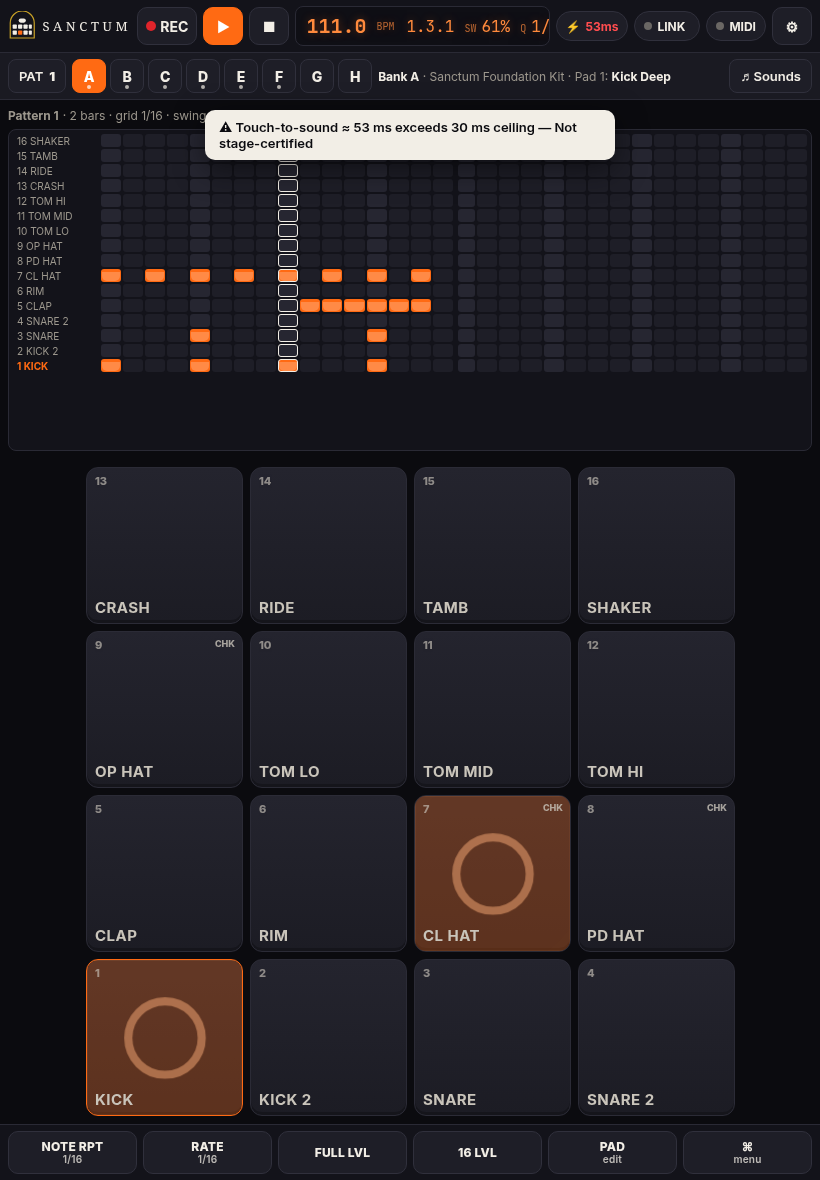
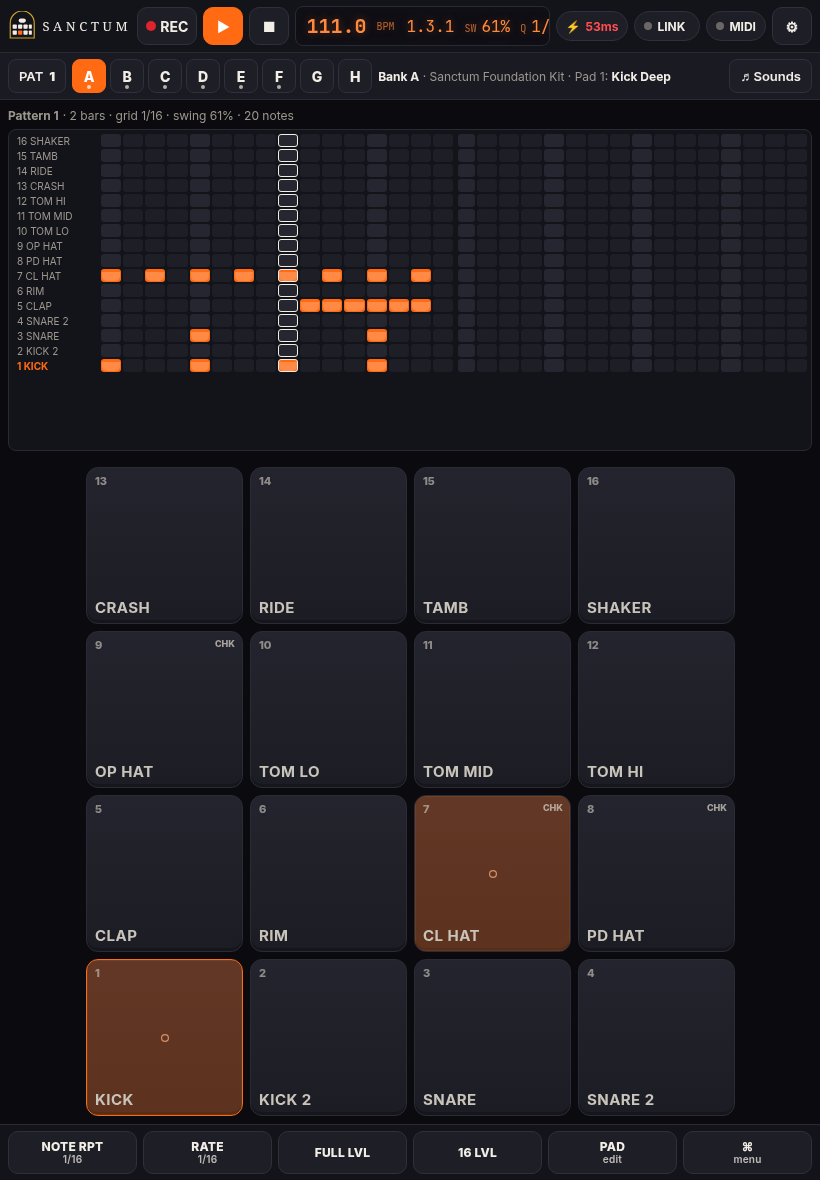
README, exact loop rate, Link start/stop sync, phase-safe relay play, smoke robustness

Changed region(s): [[0.2439, 0.0915, 0.7622, 0.1525], [0.5488, 0.7017, 0.6707, 0.7932], [0.1524, 0.8237, 0.2744, 0.9153]]

diff --git a/src/app.ts b/src/app.ts
@@ -58,7 +58,16 @@ export class App {
     });
     this.seq.noteRepeat = false;
     this.link = new LinkClient(this.engine, this.seq.clock, () => this.p.settings.linkUrl);
-    this.link.onState = () => this.emit('link');
+    let linkWasPlaying = false;
+    this.link.onState = (st) => {
+      // Link start/stop sync: follow other peers' transport (start lands on the next quantum)
+      if (this.p.settings.linkEnabled && st.connected && st.playing !== linkWasPlaying) {
+        linkWasPlaying = st.playing;
+        if (st.playing && !this.seq.playing && this.started) this.play();
+        else if (!st.playing && this.seq.playing) this.stop();
+      }
+      this.emit('link');
+    };
     this.link.onTempo = (bpm) => { this.p.bpm = Math.round(bpm * 100) / 100; this.updateLoopRates(); this.save(); this.emit('tempo'); };
     this.engine.onStats = () => this.emit('stats');
     this.engine.onRecreate.push((changed) => { if (changed) this.regenerateSynth(); });
@@ -228,7 +237,14 @@ export class App {
     this.loops.set(global, { sound: s, at, startBeat: this.seq.clock.beatAt(at) });
     this.emit('loops');
   }
-  loopRate(s: SoundDef, tune = 0) { return (s.bpm ? this.seq.clock.bpm / s.bpm : 1) * Math.pow(2, tune / 12); }
+  loopRate(s: SoundDef, tune = 0) {
+    if (!s.bpm) return Math.pow(2, tune / 12);
+    // exact: one loop cycle must last beats*60/projectBpm seconds, regardless of resampling rounding
+    const smp = this.engine.samples.get(s.id); const beats = s.beats || (s.bars ? s.bars * 4 : 0);
+    const lenSec = smp ? smp.ch[0].length / smp.sr : 0;
+    const fix = smp && beats ? lenSec / (beats * 60 / s.bpm) : 1;
+    return (this.seq.clock.bpm / s.bpm) * fix * Math.pow(2, tune / 12);
+  }
   updateLoopRates() { for (const [g, l] of this.loops) this.engine.setRate('L' + g, this.loopRate(l.sound, this.p.pads[g].tune)); }
   stopLoops() { for (const g of this.loops.keys()) this.engine.stop({ key: 'L' + g }); this.loops.clear(); this.emit('loops'); }
 

diff --git a/bridge/native/link-relay.cpp b/bridge/native/link-relay.cpp
@@ -30,8 +30,7 @@ int main(int argc, char** argv) {
       const auto now = link.clock().micros();
       if (cmd == "tempo" && v > 20 && v < 999) { s.setTempo(v, now); link.commitAppSessionState(s); }
       else if (cmd == "play") {
-        if (v > 0) s.setIsPlayingAndRequestBeatAtTime(true, now, 0.0, quantum);
-        else s.setIsPlaying(false, now);
+        s.setIsPlaying(v > 0, now); // keep the shared beat timeline untouched (phase-safe)
         link.commitAppSessionState(s);
       }
       else if (cmd == "quantum" && v > 0) quantum = v;

diff --git a/README.md b/README.md
@@ -1,0 +1,94 @@
+# Sanctum — playable prototype (PWA)
+
+Sanctum is Lawrence Davis Sr's MPC-style touch drum machine. This is the overnight prototype from Oct 30–31, 2026.
+It is a touch-first web app (PWA) that installs on phones and tablets, plus a small Node **Ableton Link bridge**.
+The spec is `/workspace/projects/mpc-research/`. Progress log: [PROGRESS.md](PROGRESS.md).
+
+## Why a PWA, and the native path later
+- This box has Node 24 and no Flutter or Android SDK. A PWA builds here, runs in any modern mobile browser, and opens from a URL on Lawrence's phone or tablet.
+- Audio: Web Audio API with an **AudioWorklet** engine (`public/sanctum-worklet.js`). Every pad hit and sequenced note carries an absolute frame number, so it starts on that exact sample inside the 128-frame render quantum. There's a BufferSource fallback for non-secure (plain `http://` LAN) pages.
+- **Native wrapper later (Capacitor):** `npm i @capacitor/core @capacitor/cli @capacitor/ios @capacitor/android && npx cap init Sanctum app.sanctum --web-dir dist && npx cap add ios && npx cap add android`, then `npm run build && npx cap sync`. This prototype's web UI and sequencer carry over as they are. The native work is:
+  1. a Capacitor plugin for a low-latency engine: Oboe on Android, AVAudioEngine with 64–128-frame IO buffers on iOS. The worklet message protocol (`trig/stop/rate/sample`) is the contract.
+  2. CoreMIDI / android.media.midi (iOS Safari has no Web MIDI).
+  3. the Ableton Link SDK in-process, so the WebSocket bridge isn't needed.
+  4. Keychain/Keystore entitlement tokens for access gating.
+
+## Run it
+
+```bash
+cd /workspace/projects/sanctum
+npm install                      # app deps (vite, typescript, puppeteer-core for the smoke test)
+npm run bridge:setup             # bridge deps + builds bridge/native/sanctum-link-relay (needs g++/make; clones Ableton Link SDK if missing)
+
+# Development (hot reload) — http://localhost:5173
+npm run dev
+# Development over HTTPS for phones/tablets (AudioWorklet, Web MIDI, mic and service worker need a secure context)
+npm run dev:https                # https://<this-computer-LAN-IP>:5173  (self-signed cert: accept the warning once)
+
+# Production build + preview
+npm run build                    # tsc --noEmit && vite build  → dist/
+npm run preview                  # http://localhost:4173
+npm run preview:https            # build + https://<LAN-IP>:4173
+
+# Ableton Link bridge (separate terminal; the dev/preview servers proxy /link → ws://127.0.0.1:20809)
+npm run bridge                   # node bridge/server.js  [--port 20809 --quantum 4 --bpm 120 --backend relay|addon]
+npm run bridge:peer -- --bpm 97  # optional 2nd Link peer for testing on one machine
+
+# Checks
+npm run smoke                    # headless Chrome smoke test + screenshots → screenshots/
+npm run zip                      # build + ../sanctum-build.zip
+```
+
+### Open it on a phone or tablet (same Wi-Fi)
+1. On the computer, run `npm run preview:https` (or `npm run dev:https`) and, in another terminal, `npm run bridge`.
+2. Find the computer's LAN IP. Vite prints it as `Network: https://192.168.x.y:4173/`.
+3. On the phone or tablet, open `https://192.168.x.y:4173/`. Accept the self-signed certificate warning once, tap **Tap to start**, then play.
+4. Install: iOS Safari → Share → **Add to Home Screen**. Android Chrome → ⋮ → **Install app**. It opens full-screen with the Keystone S icon.
+5. Link: tap **LINK** (or Menu → Link & MIDI) and turn Link on. The app connects to `wss://<same host>/link`, which the preview server proxies to the bridge, so it works from the phone with no extra setup. Ableton Live, or any other Link app on the same network, then shows the extra peer.
+
+Plain `http://<LAN-IP>` still plays, through the BufferSource fallback engine. AudioWorklet, Web MIDI, the Timing Lab loopback test and offline install all need HTTPS. Nothing is deployed publicly.
+
+## What's in it
+| Area | Details |
+|---|---|
+| Pads | 16 velocity-sensitive pads × 8 banks (A–H) = 128 pads, in MPC order (pad 1 bottom-left). Multi-touch through Pointer Events, `touch-action:none`, no scroll, zoom, double-tap delay or callouts. Velocity modes: **Auto** (stylus or 3D-touch force where reported, otherwise contact size + vertical position), Position, Pressure, Fixed, plus a velocity curve. **FULL LVL** and **16 LVL**. Keyboard: `1-4 / Q-R / A-F / Z-V` (Shift = 127), Space = play/stop, Enter = rec, `[ ]` = bank, `N` = note repeat, ↑/↓ = tempo. |
+| Visuals | A flash at velocity brightness fires on raw touch-down, before the audio (pre-light). There's also a pad ring (1.0→1.15 in 180 ms) and a ripple from the touch point. Sequenced notes light **pre-light ms** before they're audible, using `getOutputTimestamp`. Reduce Motion is respected. |
+| Sounds | **Sanctum Foundation Kit** and **Sanctum Stage FX & 808**: two starter banks of 32 sounds, all synthesized in-app (no samples). Church shout banks come from `content/church-banks/manifest.json` (Shout Guitar, Organ, Bass, Percussion → banks C–F). **Coming soon** slots: Sanctuary Tonewheel A-100, Choir Loft, Hymn Roots, Prayer Garden Sessions. Credits screen lists every sound with author, license and source. |
+| Loops | Manifest `type: loop` pads start on the **next bar** (or the next beat, set in Settings). They loop sample-exactly with `playbackRate = projectBPM / loopBPM`. Pads in the same `chokeGroup` replace each other at the bar line, and tapping again stops a loop at the next bar. The first loop played while stopped sets the project tempo to the loop's key tempo (G 132 · C 120 · D 140 · A 150). OGG is tried first. WAV is used if decoding fails or the decoded length differs from the manifest's sample count. MP3 is never used. |
+| Sequencer | 960 PPQ, 8 patterns, 1/2/3/4/8 bars, step grid plus real-time record, quantize (off, 1/8, 1/8T, 1/16, 1/16T, 1/32, 1/32T), swing 50–75 % on 1/16 or 1/8 (non-destructive, MPC-style), metronome, 1-bar count-in, tap tempo. |
+| Note repeat | Rates from 1/4 to 1/32T, locked to the tempo grid and following swing. Works with the transport stopped, and records while REC is on. Holding pressure updates the velocity where the device reports it. |
+| Timing Lab | Live baseLatency, outputLatency, render quantum and estimated touch-to-sound / MIDI-to-sound. A **buffer slider** sets `latencyHint` and recreates the AudioContext. **Loopback round-trip test** (impulse → mic/line in the same audio clock; median and jitter). **Tap test** measures touch input latency and sets the recording correction automatically. Manual touch-comp and pre-light sliders. A hard-limit table from latency-spec.md shows OK / OVER TARGET / OVER CEILING, with a **NOT STAGE-CERTIFIED** badge, a warning toast, and a Bluetooth-route warning when outputLatency > 80 ms. |
+| Timing correction | Recorded hits are stored at the audible time the performer heard: the touch `timeStamp` goes through `getOutputTimestamp` to context time, minus touch compensation. They're then un-swung and quantized. Sequenced playback is sample-offset scheduled (0-sample error). MIDI-in hits skip touch compensation. |
+| Link | `bridge/server.js` with WebSocket relay of tempo, beat, phase, peers and start/stop. The app phase-locks its clock to the session (snaps on tempo change or a big jump, otherwise slews). Play starts on the next quantum (2/4/8), local tempo changes are proposed to the session, start/stop sync works both ways, and the UI shows the peer count. |
+| MIDI | Web MIDI clock **out** (24 PPQN + Start/Stop, timestamped ahead from the audio clock, with a ±ms offset) and clock **in** (tempo follow, Start/Continue/Stop). Omni note input (36–51 → pads 1–16) and port pickers. Where Web MIDI is missing (iOS/iPadOS Safari) or the page isn't secure, the app shows a fallback message. No MIDI 2.0. |
+| Themes | **Dark**, **Light**, and **Warm**: an MPC60-style beige chassis, grey rubber pads, orange accents, keycap buttons and a green-yellow LCD. The theme is saved with the project. |
+| Brand | **Arch Pad** mark in the header, splash and lock screens. **Keystone S** is the PWA icon set (192, 512, maskable 512, apple-touch, favicon, SVG), rendered from `branding/02-keystone-s.svg` by `npm run icons`. |
+| Layouts | Phone portrait: status strip, bank row, step lane + mini drum grid, 4×4 pads in the thumb zone, action bar, left-hand mirroring. Phone landscape "Studio": pads left, editor right. Tablet landscape "Studio": browser | grid editor | inspector over pads + side actions | macro strip. Tablet portrait "Pad wall": grid above, pads in the lower ~55 %. The layout can be overridden in Settings. |
+| Autosave | Every change is saved to localStorage (debounced), and also on page hide or when the app goes to the background. This covers patterns, bank assignments, per-pad level/pan/tune/mute, tempo, swing, quantize, theme, settings and Timing Lab results. Rolling snapshots keep the last 5, taken at most every 2 minutes, with restore. Projects export as JSON. |
+| Access gating (mock) | UI only, following access-control.md: Locked → "I have an invite" (link entry; a link containing `expired` shows the expired state) → invite redemption (scope, expiry, seats, sign-in mock, "Device registered ✓"). Also Subscribe paywall, Expired, Revoked and the Grace banner. Open it from Menu → **Access preview (dev)** or with `?access=locked\|invite\|paywall\|expired\|revoked\|grace`. Nothing is sent. |
+
+URL helpers: `?theme=dark|light|warm`, `?layout=phone|tablet|auto`, `?access=…`.
+
+## Link bridge notes
+- `bridge/native/link-relay.cpp` is a small native Link peer built against the **current Ableton Link SDK** (cloned to `bridge/native/link`, which is git-ignored). It prints session state as JSON lines and reads commands on stdin, and `bridge/server.js` spawns it.
+- The `abletonlink` npm addon (0.2.0-beta.0) also builds, and the bridge falls back to it with `--backend addon`. Its bundled 2019 Link had **one-way discovery** on this Linux box: peer B saw A, A never saw B, and tempo didn't converge. That's why the relay is the default.
+- Verified on this box: two separate Link processes see each other (peers = 1), a tempo change goes both ways (97 from the test peer → app, 111 from the app → test peer), and the app's phase error is about 1–3 ms over a localhost WebSocket.
+- Linux hosts: if peers don't appear, check that multicast is allowed on the LAN interface. On this box `sudo ip link set lo multicast on` was set while testing.
+- License: the Link SDK is GPLv2+ or under a proprietary license from Ableton. Shipping Link inside a closed-source native app needs Ableton's license.
+
+## Layout of the repo
+```
+index.html, src/            app (TypeScript): main.ts, app.ts, audio/{engine,synth,kits}.ts, seq/transport.ts, sync/{link,midi}.ts, ui/*.ts, styles.css
+public/                     sanctum-worklet.js (audio engine), manifest.webmanifest, sw.js, icons/
+content/church-banks/       external shout banks (produced separately; served at /content, copied into dist/)
+bridge/                     server.js, link-backend.js, test-peer.js, native/{link-relay.cpp,build.sh}
+scripts/                    smoke.mjs (headless test + screenshots), icons.mjs, zip.py
+screenshots/                phone/tablet × Dark/Light/Warm + Timing Lab, Sounds, Link, lock screens; smoke-results.json
+```
+
+## Known limits (prototype)
+- Browsers ignore some `latencyHint` values, so the readout shows what you actually got. `outputLatency` is 0 on some browsers (Safari reports little).
+- Web pages can't detect the audio route (Bluetooth vs wired), so the Bluetooth warning is a heuristic.
+- iOS Safari exposes no touch force on current iPhones, so Auto velocity uses position + contact size.
+- Loops are tempo-synced by resampling, which changes pitch away from the loop's native BPM. Time-stretching is v1.
+- No sampler, recording or chopping, mixer/FX, song mode, MIDI learn or controller profiles yet (MVP roadmap). MIDI 2.0, stems, plugin hosting and DAW import are out of scope.
